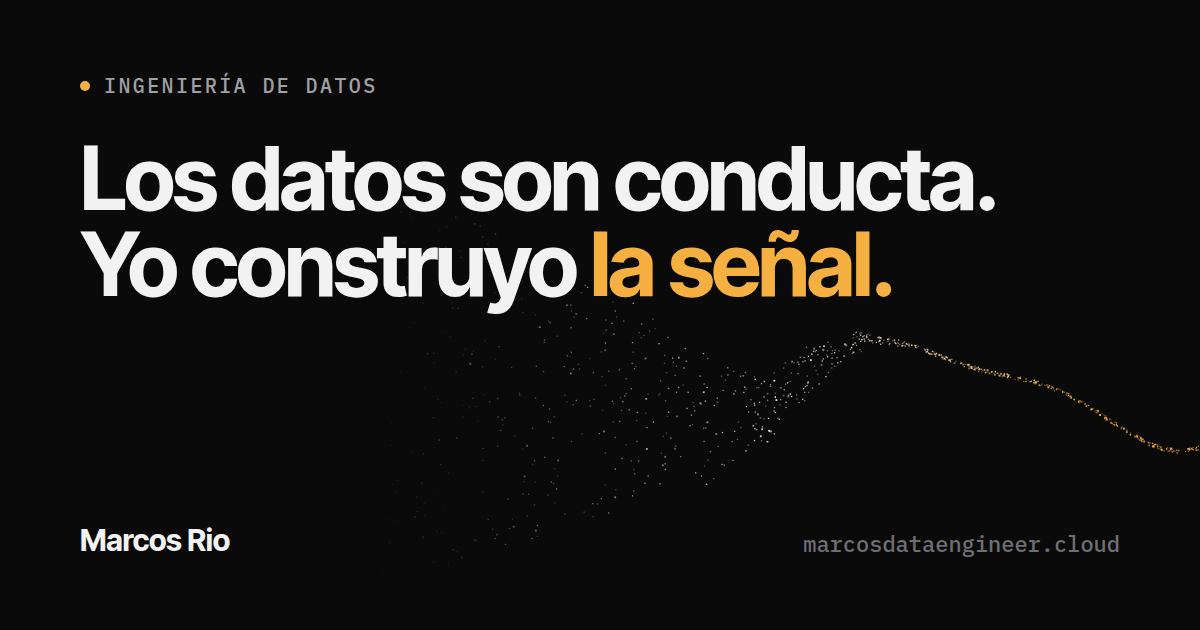
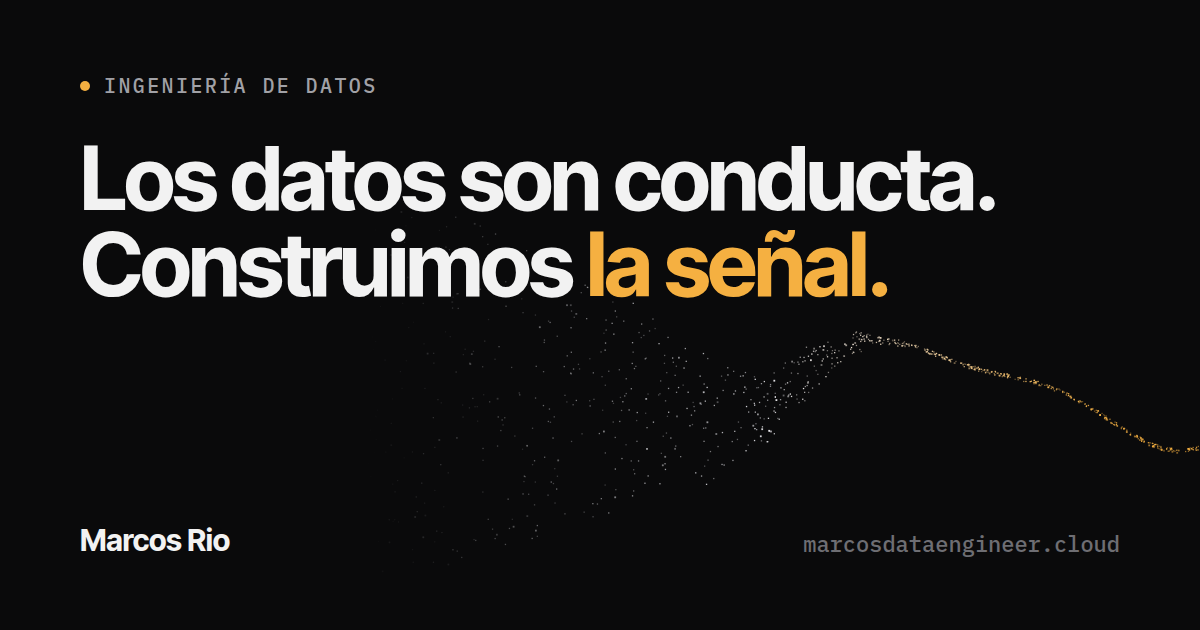
Rewrite the approach section around psychometrics, add team principles to contact and make the headline plural

Changed region(s): [[0.0617, 0.3619, 0.74, 0.5127]]

diff --git a/src/components/contact/TeamPrinciples.css b/src/components/contact/TeamPrinciples.css
@@ -1,0 +1,66 @@
+.team-principles {
+  padding-bottom: 72px;
+}
+
+.team-principles__title {
+  color: var(--muted);
+  font: 500 0.75rem var(--mono);
+  letter-spacing: 0.12em;
+  text-transform: uppercase;
+}
+
+.team-principles__list {
+  display: grid;
+  grid-template-columns: repeat(3, minmax(0, 1fr));
+  margin-top: 20px;
+  border-top: 1px solid var(--border);
+  border-bottom: 1px solid var(--border);
+}
+
+.team-principles__item {
+  display: flex;
+  flex-direction: column;
+  gap: 10px;
+  padding: 24px 28px 24px 0;
+}
+
+.team-principles__item + .team-principles__item {
+  padding-left: 28px;
+  border-left: 1px solid var(--border);
+}
+
+.team-principles__number {
+  color: var(--accent);
+  font: 500 0.75rem var(--mono);
+}
+
+.team-principles__item-title {
+  font: 600 1.1rem / 1.25 var(--display);
+  letter-spacing: -0.01em;
+}
+
+.team-principles__text {
+  color: var(--muted);
+  font-size: 0.9rem;
+  line-height: 1.6;
+}
+
+@media (max-width: 900px) {
+  .team-principles {
+    padding-bottom: 56px;
+  }
+
+  .team-principles__list {
+    grid-template-columns: 1fr;
+  }
+
+  .team-principles__item,
+  .team-principles__item + .team-principles__item {
+    padding: 20px 0;
+    border-left: 0;
+  }
+
+  .team-principles__item + .team-principles__item {
+    border-top: 1px solid var(--border);
+  }
+}

diff --git a/src/components/home/Approach.tsx b/src/components/home/Approach.tsx
@@ -1,9 +1,9 @@
 import { useTranslation } from 'react-i18next'
 import './Approach.css'
 
-const principles = ['behavior', 'bias', 'trust'] as const
+const principles = ['validity', 'reliability', 'goodhart'] as const
 
-/** What psychology brings to the data work: the core of the positioning. */
+/** Ideas from psychometrics applied to data work: the core of the positioning. */
 export function Approach() {
   const { t } = useTranslation()
 
@@ -13,7 +13,10 @@ export function Approach() {
       <ol className="approach__list">
         {principles.map((key, index) => (
           <li key={key} className="approach__item">
-            <span className="approach__number">{String(index + 1).padStart(2, '0')}</span>
+            <p className="approach__label">
+              <span className="approach__number">{String(index + 1).padStart(2, '0')}</span>
+              {t(`home.approach.items.${key}.label`)}
+            </p>
             <h3 className="approach__title">{t(`home.approach.items.${key}.title`)}</h3>
             <p className="approach__text">{t(`home.approach.items.${key}.text`)}</p>
           </li>

diff --git a/src/components/contact/TeamPrinciples.tsx b/src/components/contact/TeamPrinciples.tsx
@@ -1,0 +1,26 @@
+import { useTranslation } from 'react-i18next'
+import './TeamPrinciples.css'
+
+const principles = ['firstToKnow', 'product', 'small'] as const
+
+/** What working together looks like, shown above the contact form. */
+export function TeamPrinciples() {
+  const { t } = useTranslation()
+
+  return (
+    <section className="container team-principles" aria-labelledby="team-principles-title">
+      <h2 id="team-principles-title" className="team-principles__title">
+        {t('pages.contact.team.title')}
+      </h2>
+      <ol className="team-principles__list">
+        {principles.map((key, index) => (
+          <li key={key} className="team-principles__item">
+            <span className="team-principles__number">{String(index + 1).padStart(2, '0')}</span>
+            <h3 className="team-principles__item-title">{t(`pages.contact.team.items.${key}.title`)}</h3>
+            <p className="team-principles__text">{t(`pages.contact.team.items.${key}.text`)}</p>
+          </li>
+        ))}
+      </ol>
+    </section>
+  )
+}

diff --git a/src/routes/contact.tsx b/src/routes/contact.tsx
@@ -3,6 +3,7 @@ import type { Route } from './+types/contact'
 import { PageIntro } from '../components/PageIntro'
 import { ContactForm } from '../components/contact/ContactForm'
 import { ContactChannels } from '../components/contact/ContactChannels'
+import { TeamPrinciples } from '../components/contact/TeamPrinciples'
 import { pageMeta } from '../config/meta'
 import './contact.css'
 
@@ -19,6 +20,7 @@ export default function Contact() {
   return (
     <>
       <PageIntro tag={t('pages.contact.tag')} title={t('pages.contact.title')} intro={t('pages.contact.intro')} />
+      <TeamPrinciples />
       <section className="container page-section contact-layout">
         <ContactForm />
         <ContactChannels />

diff --git a/src/components/home/Approach.css b/src/components/home/Approach.css
@@ -25,9 +25,19 @@
   border-left: 1px solid var(--border);
 }
 
+/* "01  VALIDITY": the psychometric concept each principle comes from */
+.approach__label {
+  display: flex;
+  gap: 12px;
+  color: var(--faint);
+  font: 500 0.75rem var(--mono);
+  letter-spacing: 0.12em;
+  text-transform: uppercase;
+}
+
 .approach__number {
   color: var(--accent);
-  font: 500 0.75rem var(--mono);
+  letter-spacing: 0;
 }
 
 .approach__title {
